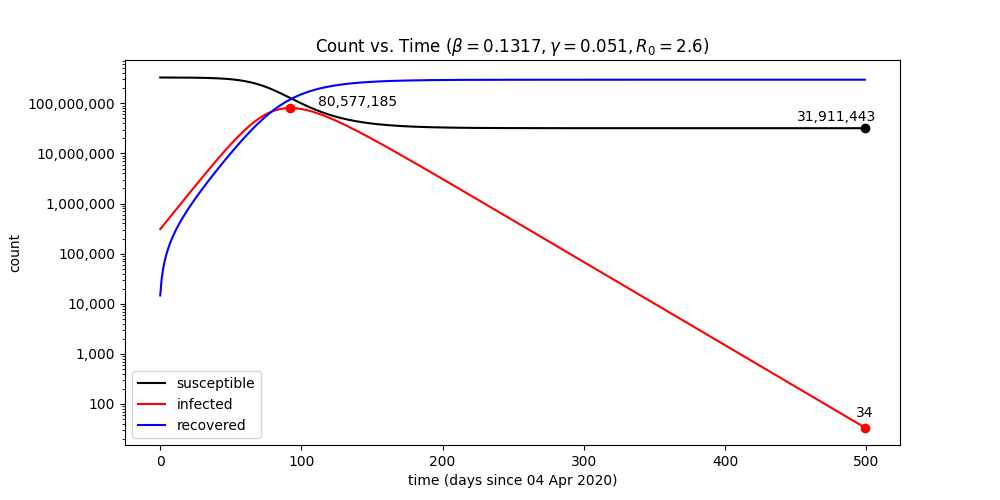
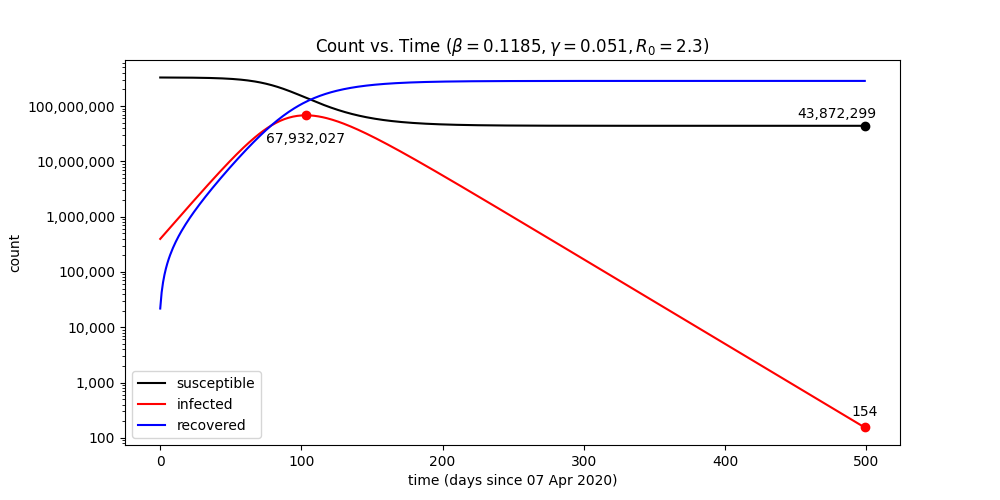
Use 2020-04-07 as the new start date of the projection

diff --git a/model.py b/model.py
@@ -157,7 +157,7 @@ def project(population, initial, days, infection_rate, recovery_rate, start_date
     )
     t_max_infected = np.where(infected == max(infected))[0][0]
     plt.semilogy(t_max_infected, max(infected), 'ro')
-    ax.annotate('{:,}'.format(int(round(max(infected)))), (t_max_infected + 20, 10 ** (np.log10(max(infected)) + 0.05)))
+    ax.annotate('{:,}'.format(int(round(max(infected)))), (t_max_infected, 10 ** (np.log10(max(infected)) - 0.50)), ha='center')
     plt.semilogy(t[-1], infected[-1], 'ro')
     ax.annotate('{:,}'.format(int(round(infected[-1]))), (t[-1], 10 ** (np.log10(infected[-1]) + 0.2)), ha='center')
 
